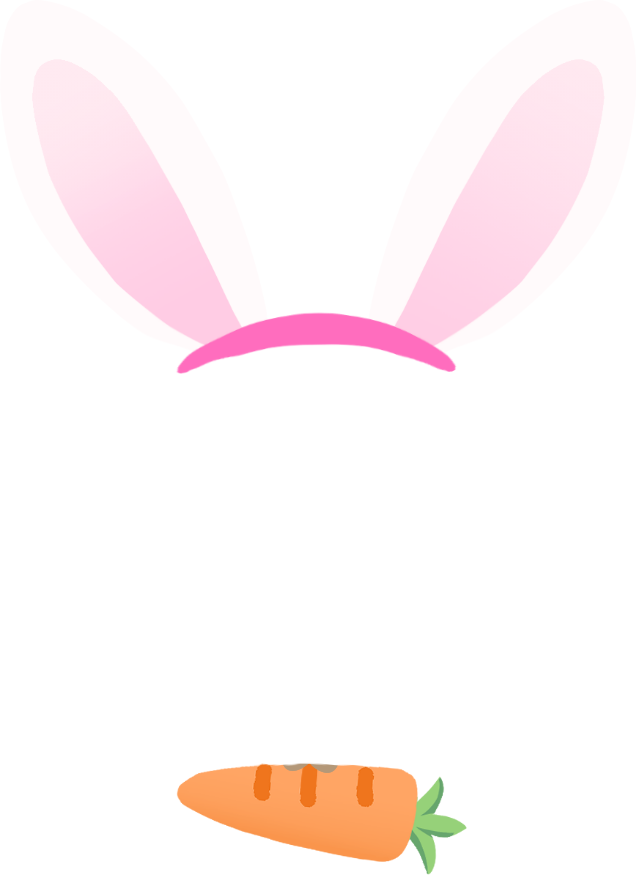
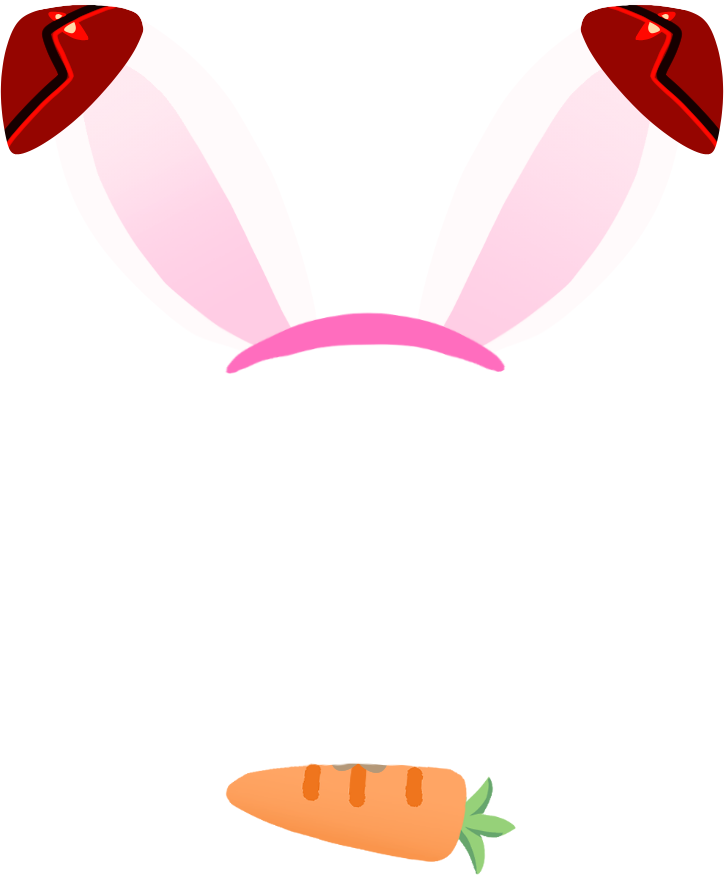
update v1787691729

diff --git a/mascot.py b/mascot.py
@@ -5534,6 +5534,10 @@ class Mascot:
         self._prop_back_cfg = {}     # 뽑힌 소품의 뒤쪽 조각 움직임 설정
         self._prop_bits = []         # 여러 조각짜리 소품의 곁조각 자리 이름
         self._prop_bit_cfg = {}      # 그 조각마다의 움직임 (지뢰 13)
+        self._prop_gname = ""        # 지금 소품의 이름 (고양이·만두…)
+        self._cat_open_until = 0.0   # 고양이가 눈을 뜨고 있는 시한
+        self._cat_open_next = 0.0    # 다음에 눈을 뜰 시각
+        self._cat_heart_next = 0.0   # 다음 하트가 나올 시각
         # ── 매끈한 캐릭터 (몸만 레이어 창으로) ───────────────────────────
         # **_load_parts 보다 먼저 정해야 한다.** 파츠를 읽으면서 몸 뒤
         # 파츠의 움직임 프레임을 미리 굽는데, 그 캐시에 PIL 을 담을지
@@ -6374,6 +6378,26 @@ class Mascot:
 
     PROP_BIT_MAX = 6         # 한 소품에 붙일 수 있는 곁조각 수
 
+    # 이름(gname)으로 주는 기본 움직임 — 열여덟 캐릭터의 config 를 일일이
+    # 고치지 않아도 새 소품이 살아 움직인다. config 의 prop_motion 이 있으면
+    # 그쪽이 이긴다 (캐릭터별 손맛).
+    #   고양이: prop=꼬리(살랑) · bit2=몸 · bit3=눈감은 얼굴(리듬 까닥) ·
+    #           bit4=눈뜬 얼굴(가만히 빤히 — 움직임 없음)
+    #   만두:   bit2=김(폴폴 오르며 옅어짐)
+    PROP_MOTION_DEF = {
+        "고양이": {
+            "prop": {"motion": "sway", "amp": 8.0, "period": 2.6,
+                     "jitter": 0.18, "pivot": [0.5, 0.9], "steps": 24},
+            "prop_bit3": {"motion": "sway", "amp": 3.6, "period": 1.35,
+                          "jitter": 0.08, "pivot": [0.5, 0.86],
+                          "steps": 20},
+        },
+        "만두": {
+            "prop_bit2": {"motion": "steam", "amp": 1.0, "period": 3.4,
+                          "jitter": 0.12, "rise": 1.1, "steps": 22},
+        },
+    }
+
     def _load_prop_bits(self, pick, s, pil_cache):
         """여러 조각으로 된 특별 소품 (사가 신하나의 미쿠).
 
@@ -6405,7 +6429,10 @@ class Mascot:
         # 다시 매기면 밀린다 (미쿠가 prop16 → prop17 이 됐다). 번호로도
         # 찾아 주므로 옛 config 도 그대로 돈다.
         tab9 = self.cfg.get("prop_motion") or {}
-        mo_all = tab9.get(ent.get("gname") or "") or tab9.get(pick) or {}
+        gname9 = str(ent.get("gname") or "")
+        self._prop_gname = gname9        # 그리는 쪽(고양이 눈)이 본다
+        mo_all = (tab9.get(gname9) or tab9.get(pick)
+                  or self.PROP_MOTION_DEF.get(gname9) or {})
         self._prop_bit_cfg["prop"] = mo_all.get("prop") or {}
         for j9, key9 in enumerate(keys):
             nm9 = "prop_bit%d" % (j9 + 2)
@@ -7478,6 +7505,34 @@ class Mascot:
             im = Image.new("RGBA", pil.size, (0, 0, 0, 0))
             im.alpha_composite(pil.resize((w, pil.height), Image.LANCZOS),
                                ((pil.width - w) // 2, 0))
+        elif mode == "steam":
+            # 김 — **제자리에서 위로 폴폴** 오르며 옅어졌다 다시 차오른다.
+            # 한 주기: 아래(진하게) → 위로 오르며 옅어짐 → 사라지고 다시.
+            # sin 이 아니라 톱니(주기 진행률)를 쓴다 — 김은 왕복하지 않는다.
+            t2 = (k / float(steps)) % 1.0
+            rise = pil.height * float(mo.get("rise", 0.9))
+            pad = int(math.ceil(rise)) + 2
+            # 처음엔 스르륵 나타나고(0→0.15) 끝에서 길게 사라진다
+            if t2 < 0.15:
+                a2 = t2 / 0.15
+            else:
+                a2 = max(0.0, 1.0 - (t2 - 0.15) / 0.85)
+            # 반투명 흰 김 (요청). 매끈 레이어에서는 알파 그대로 나오고,
+            # 색상키 경로에서는 키 색과 섞여 옅은 회색 김이 된다 — 김은
+            # 원래 회끄무레해 그 모습도 자연스럽다 (지뢰 65 의 얼룩과
+            # 달리 면적이 작고 늘 움직여 테로 보이지 않는다).
+            a2 *= 0.42 + 0.30 * (1.0 - t2)
+            fade = pil.copy()
+            fade.putalpha(fade.getchannel("A").point(
+                lambda v, m9=a2: int(v * m9)))
+            wob = math.sin(t2 * 2 * math.pi) * pil.width * 0.06
+            base = Image.new("RGBA",
+                             (pil.width + 2 * pad, pil.height + 2 * pad),
+                             (0, 0, 0, 0))
+            base.alpha_composite(fade,
+                                 (pad + int(round(wob)),
+                                  pad - int(round(rise * t2))))
+            im = base
         else:
             return None
         # 움직이는 조각이 넷이 되면서 12장 × 4 = 48장이라 상한 40 을 계속
@@ -12725,7 +12780,21 @@ class Mascot:
             hy = wy = round(h * 1.5)
             cloud = self._fx_cloud(hy)
 
+            # ③-2 작은 하트 — 고양이 소품 곁에 뿅뿅 (요청). 반 크기라
+            # 캐릭터 하트와 확실히 구분된다.
+            hs = round(h * 0.52)
+            whs = max(6, round(hs * 0.92))
+
+            def drawhs(d, c="#ff9fbc"):
+                r = whs * 0.26
+                d.ellipse([0, hs * 0.14, 2 * r, hs * 0.14 + 2 * r], fill=c)
+                d.ellipse([whs - 2 * r, hs * 0.14, whs, hs * 0.14 + 2 * r],
+                          fill=c)
+                d.polygon([(1, hs * 0.34), (whs - 1, hs * 0.34),
+                           (whs / 2, hs * 0.97)], fill=c)
+
             groups = {"note": notes, "heart": [(wh, drawh)],
+                      "heart_s": [(whs, drawhs, hs)],
                       "yawn": [(wy, cloud, hy)],
                       "sweat": [(ws, draws)], "question": [(wq, drawq)],
                       "spark": [(wk, drawk)], "bang": [(wb, drawb)]}
@@ -18116,8 +18185,27 @@ class Mascot:
         차례와 움직임은 얼굴 차례에서 하던 것과 똑같이 한다.
         """
         now9 = time.time()
+        # 고양이 소품 — 눈감은 얼굴(bit3)이 기본, 가끔 눈을 뜨고(bit4)
+        # 빤히 바라본다 (요청). 두 얼굴은 같은 자리라 하나만 그린다.
+        skip9 = None
+        if self._prop_gname == "고양이" and self.has.get("prop_bit4"):
+            if now9 < self._cat_open_until:
+                skip9 = "prop_bit3"          # 눈 뜸 — 가만히 응시
+            else:
+                skip9 = "prop_bit4"
+                if not self._cat_open_next:      # 켠 직후 — 예약만
+                    self._cat_open_next = now9 + random.uniform(8.0, 18.0)
+                elif now9 >= self._cat_open_next:
+                    self._cat_open_until = now9 + random.uniform(3.0, 5.5)
+                    self._cat_open_next = (self._cat_open_until
+                                           + random.uniform(14.0, 30.0))
+                # 눈을 감고 있는 동안 반투명 작은 하트가 뿅뿅 (요청)
+                if now9 >= self._cat_heart_next:
+                    self._cat_heart_next = now9 + random.uniform(1.4, 2.4)
+                    self._safe("cat_heart", self._cat_heart, now9, yo)
         for name in (self.layout.get("overlays") or []):
-            if not name.startswith("prop") or not self.has.get(name):
+            if (not name.startswith("prop") or not self.has.get(name)
+                    or name == skip9):
                 continue
             mo9 = (getattr(self, "_prop_bit_cfg", None) or {}).get(name)
             if mo9 and mo9.get("motion"):
@@ -18125,6 +18213,47 @@ class Mascot:
                 continue
             ox, oy_ = self._pos(name)
             self._put(name, ox, oy_ + yo)
+
+    def _cat_heart(self, now, yo):
+        """고양이 소품 곁에서 뿅 하고 오르는 작은 하트.
+
+        기존 하트 파티클(_spawn_note 의 heart)을 그대로 쓰되, 자리만
+        고양이(몸 조각) 위로 잡는다 — FxLayer 가 있으면 부드럽게 옅어지고
+        (반투명, 요청) 없으면 픽셀 솎기로 물러난다 (기존과 같은 길).
+        """
+        lvs = (self.fx_imgs.get("heart_s") or self.fx_imgs.get("heart")
+               or self.fx_imgs.get("note"))
+        if not lvs:
+            return
+        body9 = ("prop_bit2" if self.has.get("prop_bit2") else "prop")
+        try:
+            bx9, by9 = self._pos(body9)
+            ent9 = self.layout.get(body9) or {}
+            sz9 = ent9.get("size") or [40, 40]
+            w9 = float(sz9[0]) * self.s
+            h9 = float(sz9[1]) * self.s
+        except Exception:
+            return
+        # **주변을 번갈아** — 왼쪽·오른쪽·위를 돌아가며, 한 번에 두세 개를
+        # 박자를 어긋내 뿅뿅 (요청: 작게 여러 개).
+        side9 = getattr(self, "_cat_heart_side", 0)
+        self._cat_heart_side = (side9 + 1) % 3
+        for j9 in range(random.randint(2, 3)):
+            if side9 == 0:              # 왼쪽 곁
+                x = bx9 - w9 * random.uniform(0.05, 0.28)
+                y = by9 + yo + h9 * random.uniform(0.1, 0.7)
+            elif side9 == 1:            # 오른쪽 곁
+                x = bx9 + w9 * (1.0 + random.uniform(0.05, 0.28))
+                y = by9 + yo + h9 * random.uniform(0.1, 0.7)
+            else:                       # 머리 위
+                x = bx9 + w9 * random.uniform(0.2, 0.8)
+                y = by9 + yo - h9 * random.uniform(0.0, 0.25)
+            # 자리·속도·수명을 제각각 주면 같은 박자에 태어나도 흩어져
+            # '번갈아 뿅뿅'으로 보인다.
+            life = random.randint(24, 38)
+            self.notes.append([x, y, random.uniform(-0.35, 0.35),
+                               random.uniform(0.7, 1.15),
+                               random.choice(lvs), life, life])
 
     def _draw_pen_hand(self):
         """펜 쥔 손. 퀸시처럼 펜이 맨 위 레이어인 캐릭터는 머리를 그린 뒤 호출.
